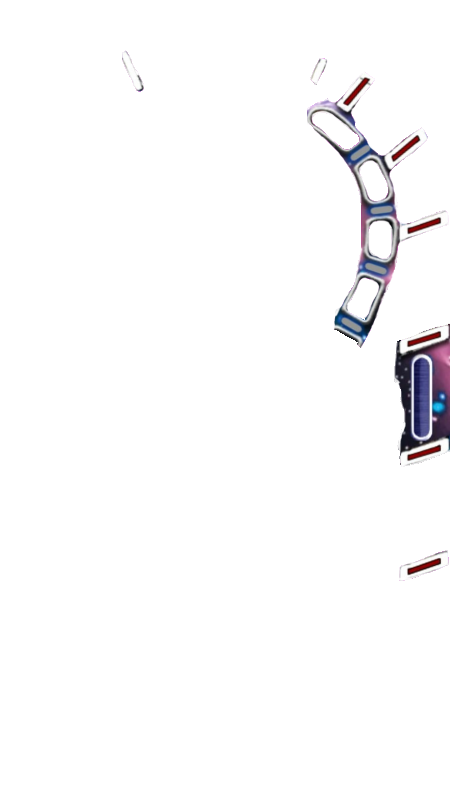
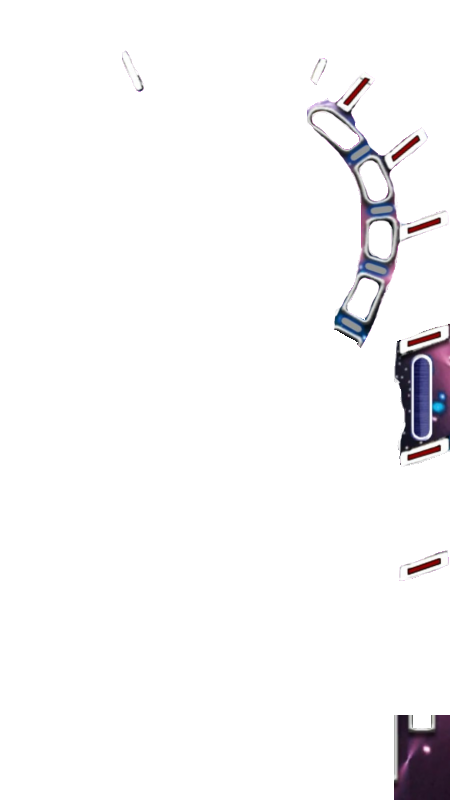
Added Plunger Texture

Changed region(s): [[0.8711, 0.875, 1.0, 1.0]]

diff --git a/Physics2_class_4_handout/ModuleSceneIntro.cpp b/Physics2_class_4_handout/ModuleSceneIntro.cpp
@@ -138,6 +138,14 @@ update_status ModuleSceneIntro::Update()
 		App->renderer->Blit(background_elements, x + 146, y + 741, &rect, 1.0f, pb_left_flipper->GetRotation());
 	}
 
+	if (pb_plunger != NULL)
+	{
+		int x, y;
+		pb_plunger->GetPosition(x, y);
+		SDL_Rect rect = {96,83,19,80};
+		App->renderer->Blit(background_elements, x + 412, y + 650, &rect, 1.0f);
+	}
+
 	if (pb_ball != NULL)
 	{
 		int x, y;
@@ -277,7 +285,7 @@ bool ModuleSceneIntro::LoadMap()
 
 	jointDef.enableLimit = true;
 	jointDef.upperTranslation = 1.0F;
-	jointDef.lowerTranslation = -0.5F;
+	jointDef.lowerTranslation = 0.0F;
 
 	jointDef.enableMotor = true;
 	jointDef.maxMotorForce = 500.0f;
